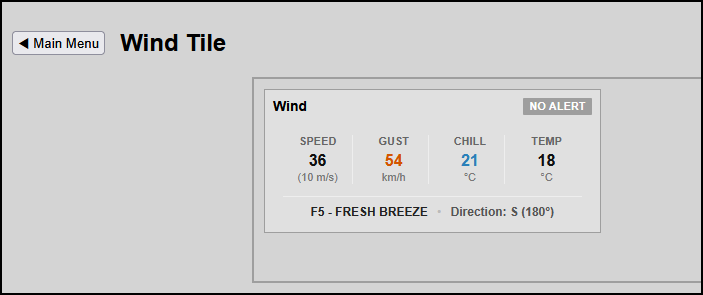
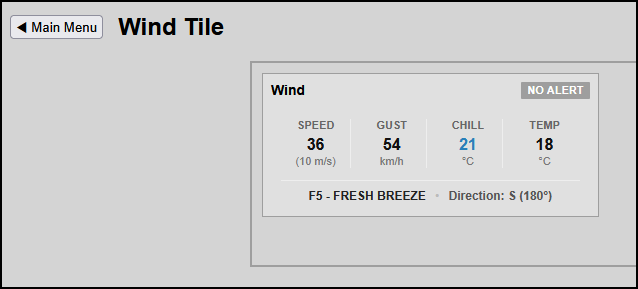
Update

diff --git a/blueprints/windtile/windtile/index.html b/blueprints/windtile/windtile/index.html
@@ -52,21 +52,21 @@
 					<!-- Column 2: Gust -->
 					<div class="hmi-wind-col-split">
 						<span class="hmi-wind-label">Gust</span>
-						<span class="hmi-wind-val-line gust-color wind-gust-kmh">0</span>
-						<span class="hmi-wind-subvalue">km/h</span>
+						<span class="hmi-wind-val-line wind-gust-kmh">54</span>
+						<span class="hmi-wind-subvalue">km/h</span> <!-- Wraps text cleanly on line 2 -->
 					</div>
 
 					<!-- Column 3: Chill -->
 					<div class="hmi-wind-col-split">
 						<span class="hmi-wind-label">Chill</span>
-						<span class="hmi-wind-val-line chill-color wind-chill-temp">0</span>
+						<span class="hmi-wind-val-line chill-color wind-chill-temp">21</span>
 						<span class="hmi-wind-subvalue">°C</span>
 					</div>
 
 					<!-- Column 4: Temp -->
 					<div class="hmi-wind-col">
 						<span class="hmi-wind-label">Temp</span>
-						<span class="hmi-wind-val-line wind-air-temp">0</span>
+						<span class="hmi-wind-val-line wind-air-temp">18</span>
 						<span class="hmi-wind-subvalue">°C</span>
 					</div>
 